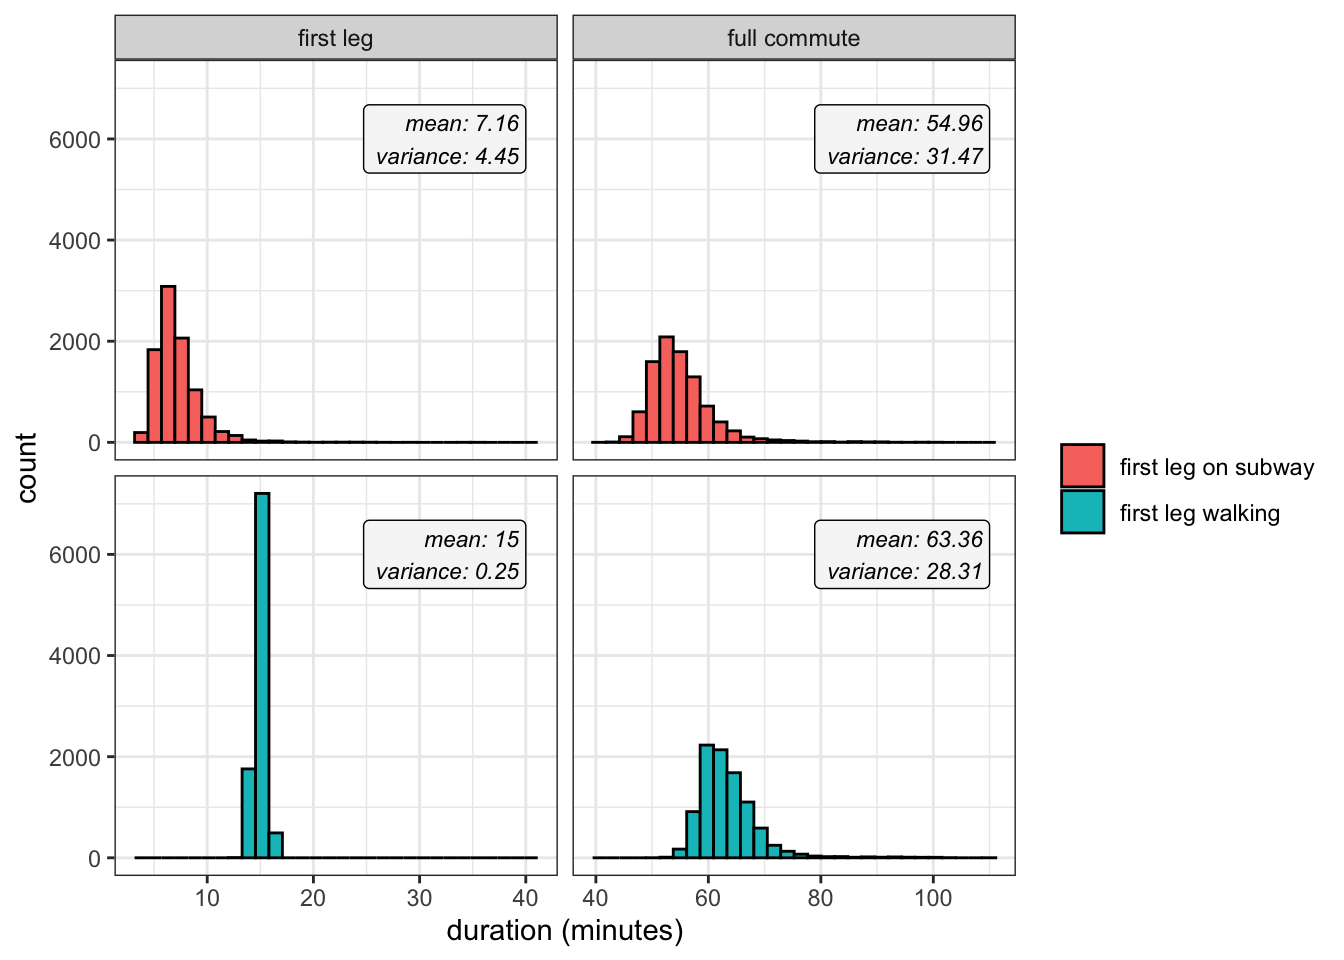
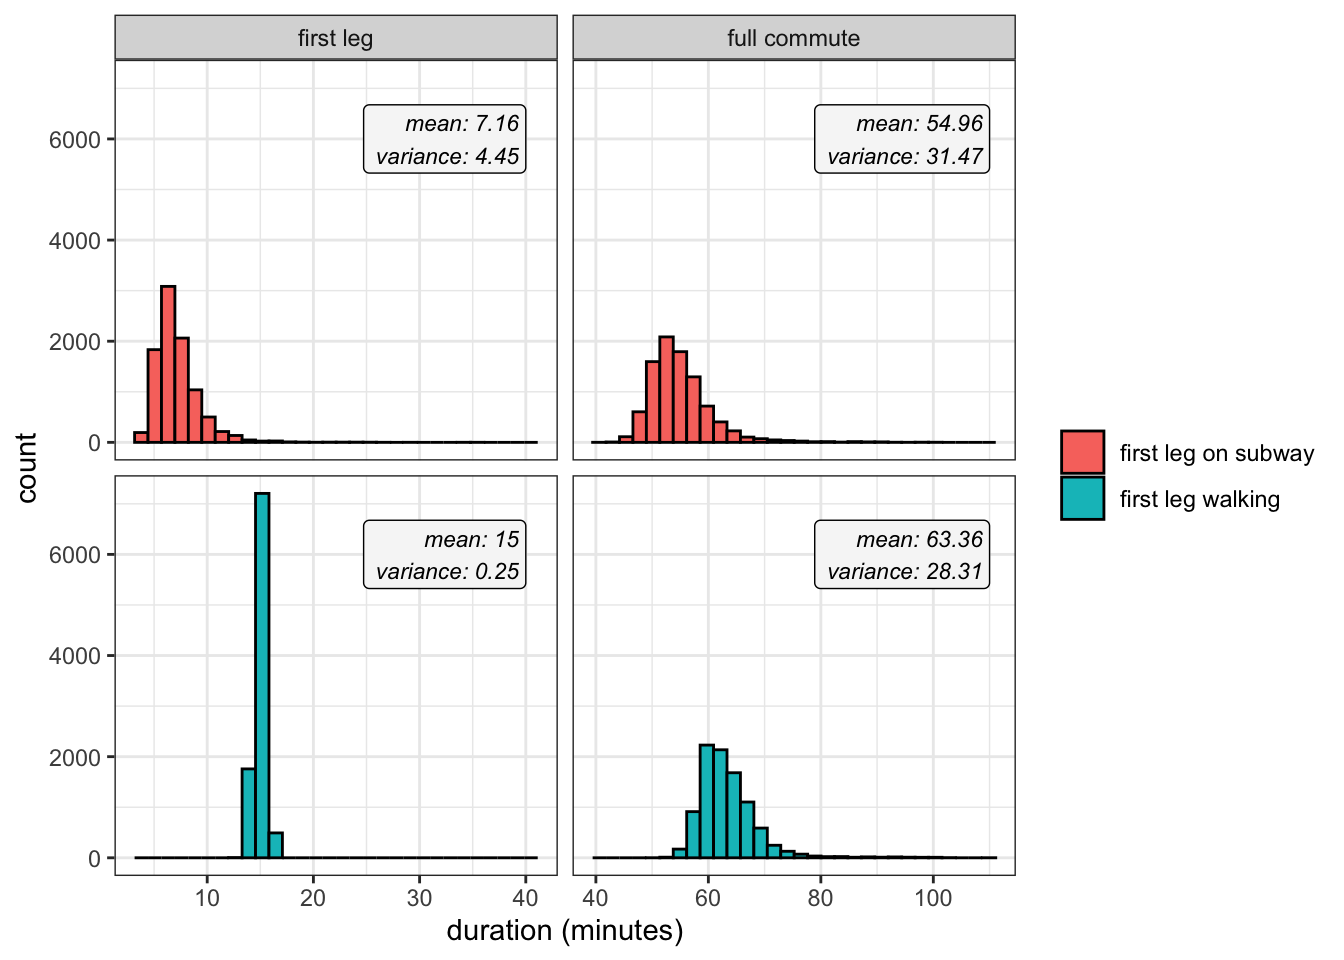
subway better graphs

Changed region(s): [[0.7812, 0.4375, 1.0, 0.5625]]

diff --git a/public/posts/2021-01-07-avoiding-variance-on-my-morning-commute/index.html b/public/posts/2021-01-07-avoiding-variance-on-my-morning-commute/index.html
@@ -1,7 +1,7 @@
 ---
 title: Avoiding Variance on my Morning Commute
 author: Walker Harrison
-date: '2021-01-07'
+date: '2021-01-10'
 draft: false
 slug: []
 categories: []
@@ -35,8 +35,8 @@ X = Y_1 + Y_2; \ \ \ Y_1 \perp Y_2
 \]</span></p>
 <p>As a result, as long as my walks had less variance than the time spent waiting for and riding the 2/3 train until Nevins Street, then the overall variance would also be decreased, since the second leg is identical in both cases. Lucky for us, we can actually test this thought using some historical subway data.</p>
 <p><a href="#skip1"><em><strong>Don’t like/know/care about R? Click here to skip to the results.</strong></em></a></p>
-<p>The MTA publishes the <a href="http://web.mta.info/developers/MTA-Subway-Time-historical-data.html">historical timestamp data</a> of its subway routes, although there are some caveats. I was unable to successfully retrieve the “daily roll-up” files, which meant I had to grab the individual reports that correspond to 5-minute intervals. It also appears that the MTA stopped making these files available at some point in late 2018.</p>
-<p>Either way, I’m able to fetch approximately 200 mornings worth of weekday data from 2018, which should suffice:</p>
+<p>The MTA publishes the <a href="http://web.mta.info/developers/MTA-Subway-Time-historical-data.html" target="_blank">historical timestamp data</a> of its subway routes, although there are some caveats. I was unable to successfully retrieve the “daily roll-up” files, which meant I had to grab the individual reports that correspond to 5-minute intervals. It also appears that the MTA stopped making these files available at some point in late 2018.</p>
+<p>Either way, I’m able to fetch approximately 200 mornings’ worth of weekday data from 2018, which should suffice:</p>
 <pre class="r"><code>library(gtfsway)
 library(httr)
 library(tidyverse)
@@ -74,7 +74,7 @@ for(i in 1:length(urls)){
 # only keep the successful queries
 good_requests &lt;- requests %&gt;%
   keep(function(request) !is.null(request$result$status_code) &amp;&amp; request$result$status_code == 200)</code></pre>
-<p>The <code>gtfsway</code> package is a life-saver here since it converts the <a href="https://developers.google.com/transit/gtfs-realtime">Google transit feed</a> into comprehensible R objects, although I did rewrite the <code>gtfs_tripUpdates</code> function to drill down on specific routes in the interest of speed:</p>
+<p>The <code>gtfsway</code> package is a life-saver here since it converts the <a href="https://developers.google.com/transit/gtfs-realtime" target="_blank">Google transit feed</a> into comprehensible R objects, although I did <a href="https://github.com/WalkerHarrison/blogposts/blob/main/2021-01-07-avoiding-variance-on-my-morning-commute/faster_trip_updates.R" target="_blank">rewrite the <code>gtfs_tripUpdates</code> function</a> to drill down on specific routes in the interest of speed:</p>
 <pre class="r"><code># slight re-write of gtfs_tripUpdates that runs faster
 source(&quot;faster_trip_updates.R&quot;)
 
@@ -155,7 +155,7 @@ first_leg &lt;- trip_updates %&gt;%
   filter(hour(start_time) &lt; 10 | diff == min(diff)) %&gt;%
   select(-diff) %&gt;%
   mutate(route = &quot;first leg (2/3)&quot;)</code></pre>
-<p>The logic for the second leg is similar, although now we have to record the when exactly the first leg is finishing up each day, since these <code>transfers</code> will determine the window during which our second leg can actually start.</p>
+<p>The logic for the second leg is similar, although now we have to record when exactly the first leg is finishing up each day, since these <code>transfers</code> will determine the window during which our second leg can actually start.</p>
 <pre class="r"><code># find earliest and latest times when first leg is ending
 transfers &lt;- first_leg %&gt;%
   filter(stop_idx == max(stop_idx)) %&gt;%
@@ -197,14 +197,22 @@ second_leg &lt;- trip_updates %&gt;%
 
 full_trip %&gt;%
   filter(month(arrival_time) == 1, day(arrival_time) == 2) %&gt;%
+  arrange(desc(route)) %&gt;%
+  mutate(route = factor(route, levels = unique(.$route))) %&gt;%
   ggplot(aes(arrival_time, stop_idx, group = trip_id)) +
   geom_line(aes(col = route)) +
   geom_point(aes(col = route), alpha = 0.5, size = 2) +
   scale_y_continuous(breaks = 1:max(full_trip$stop_idx),
                      labels = unique(c(levels(first_leg$stop_name), levels(second_leg$stop_name)))) +
+  labs(x = &quot;time&quot;, y = &quot;&quot;) +
+  facet_wrap(~date(arrival_time), scales = &quot;free_x&quot;, nrow = 1) +
   theme_bw() +
-  labs(x = &quot;time&quot;, y = &quot;&quot;, color = &quot;&quot;) +
-  facet_wrap(~date(arrival_time), scales = &quot;free_x&quot;, nrow = 1)</code></pre>
+  theme(legend.title = element_blank(),
+        legend.position = c(1, 0), 
+        legend.justification = c(1, 0),
+        legend.background = element_rect(fill = alpha(&quot;white&quot;, 0)),
+        legend.key = element_rect(fill = alpha(&quot;white&quot;, 0)),
+        legend.margin=margin(r = 10, b = 15))</code></pre>
 <div id="skip1">
 
 </div>
@@ -270,7 +278,7 @@ full_trip_walking &lt;- first_leg_walking %&gt;%
   filter((start) == min(start)) %&gt;%
   mutate(duration_full = as.numeric(difftime(end_leg2, end_leg1, units = &#39;mins&#39;)) + duration_leg1)</code></pre>
 <p>Finally we can graph the distribution of simulated first leg and full commute durations under both conditions. As we guaranteed by assuming a relatively consistent walking time, the variance of the first leg is much wider when taking the train despite also having a much smaller mean. This discrepancy is passed along to the full commute durations, as there’s also less overall variance when walking the first leg:</p>
-<pre class="r"><code>rbind(
+<pre class="r"><code>commute_times &lt;- rbind(
   full_trip_subway %&gt;%
     ungroup() %&gt;%
     select(duration_leg1, duration_full) %&gt;%
@@ -282,16 +290,30 @@ full_trip_walking &lt;- first_leg_walking %&gt;%
 ) %&gt;% 
   mutate(idx = row_number()) %&gt;%
   gather(interval, duration, -idx, -type) %&gt;%
-  mutate(interval = ifelse(interval == &quot;duration_leg1&quot;, &quot;first leg&quot;, &quot;full commute&quot;)) %&gt;%
-  ggplot(aes(duration, fill = type)) +
-  geom_histogram(col = &quot;black&quot;) +
+  mutate(interval = ifelse(interval == &quot;duration_leg1&quot;, &quot;first leg&quot;, &quot;full commute&quot;))
+
+commute_stats &lt;- commute_times %&gt;%
+  group_by(type, interval) %&gt;%
+  summarize(mean = mean(duration), variance = var(duration)) %&gt;%
+  mutate(text = paste0(&quot;mean: &quot;, round(mean, 2), &quot;\n&quot;, &quot;variance: &quot;, round(variance, 2)))
+
+commute_times %&gt;%
+  ggplot(aes(duration)) +
+  geom_histogram(aes(fill = type), col = &quot;black&quot;) +
+  geom_label(
+    data = commute_stats,
+    size = 3,
+    fill = &quot;#F6F6F6&quot;,
+    mapping = aes(x = c(40, 110, 40, 110), y = 6000, label = text),
+    hjust = 1,
+    fontface = &quot;italic&quot;) +
   facet_grid(type~interval, scales = &quot;free_x&quot;) +
+  labs(x = &quot;duration (minutes)&quot;) +
   theme_bw() +
-  theme(strip.text.y = element_blank()) +
-  labs(fill = &quot;&quot;)</code></pre>
+  theme(legend.title = element_blank(),
+        strip.text.y = element_blank())</code></pre>
 <div id="skip2">
 
 </div>
-<pre><code>## `stat_bin()` using `bins = 30`. Pick better value with `binwidth`.</code></pre>
 <p><img src="index_files/figure-html/unnamed-chunk-16-1.png" width="672" /></p>
-<p>Of course, the two distributions describing the full journey are very similar, and the difference in spread is mostly washed away against the backdrop of lengthy commutes in general. By walking I wasn’t really saving that much uncertainty or avoiding particularly long trips caused by 4-train delays. But the study is still a decent example of a tradeoff between expected value and variance, which perhaps can explain why I found those walks a little more relaxing than waiting for a train.</p>
+<p>Of course, the two distributions describing the full journey are very similar, and the difference in spread is mostly washed away against the backdrop of lengthy commutes in general. By walking I wasn’t really saving that much uncertainty or avoiding particularly long trips that are usually caused by 4-train delays. But the study is still a decent example of a tradeoff between expected value and variance, which perhaps can explain why I found those walks a little more relaxing than waiting for a train.</p>

diff --git a/content/posts/2021-01-07-avoiding-variance-on-my-morning-commute/index.html b/content/posts/2021-01-07-avoiding-variance-on-my-morning-commute/index.html
@@ -197,14 +197,22 @@ second_leg &lt;- trip_updates %&gt;%
 
 full_trip %&gt;%
   filter(month(arrival_time) == 1, day(arrival_time) == 2) %&gt;%
+  arrange(desc(route)) %&gt;%
+  mutate(route = factor(route, levels = unique(.$route))) %&gt;%
   ggplot(aes(arrival_time, stop_idx, group = trip_id)) +
   geom_line(aes(col = route)) +
   geom_point(aes(col = route), alpha = 0.5, size = 2) +
   scale_y_continuous(breaks = 1:max(full_trip$stop_idx),
                      labels = unique(c(levels(first_leg$stop_name), levels(second_leg$stop_name)))) +
+  labs(x = &quot;time&quot;, y = &quot;&quot;) +
+  facet_wrap(~date(arrival_time), scales = &quot;free_x&quot;, nrow = 1) +
   theme_bw() +
-  labs(x = &quot;time&quot;, y = &quot;&quot;, color = &quot;&quot;) +
-  facet_wrap(~date(arrival_time), scales = &quot;free_x&quot;, nrow = 1)</code></pre>
+  theme(legend.title = element_blank(),
+        legend.position = c(1, 0), 
+        legend.justification = c(1, 0),
+        legend.background = element_rect(fill = alpha(&quot;white&quot;, 0)),
+        legend.key = element_rect(fill = alpha(&quot;white&quot;, 0)),
+        legend.margin=margin(r = 10, b = 15))</code></pre>
 <div id="skip1">
 
 </div>
@@ -270,7 +278,7 @@ full_trip_walking &lt;- first_leg_walking %&gt;%
   filter((start) == min(start)) %&gt;%
   mutate(duration_full = as.numeric(difftime(end_leg2, end_leg1, units = &#39;mins&#39;)) + duration_leg1)</code></pre>
 <p>Finally we can graph the distribution of simulated first leg and full commute durations under both conditions. As we guaranteed by assuming a relatively consistent walking time, the variance of the first leg is much wider when taking the train despite also having a much smaller mean. This discrepancy is passed along to the full commute durations, as there’s also less overall variance when walking the first leg:</p>
-<pre class="r"><code>rbind(
+<pre class="r"><code>commute_times &lt;- rbind(
   full_trip_subway %&gt;%
     ungroup() %&gt;%
     select(duration_leg1, duration_full) %&gt;%
@@ -282,13 +290,28 @@ full_trip_walking &lt;- first_leg_walking %&gt;%
 ) %&gt;% 
   mutate(idx = row_number()) %&gt;%
   gather(interval, duration, -idx, -type) %&gt;%
-  mutate(interval = ifelse(interval == &quot;duration_leg1&quot;, &quot;first leg&quot;, &quot;full commute&quot;)) %&gt;%
-  ggplot(aes(duration, fill = type)) +
-  geom_histogram(col = &quot;black&quot;) +
+  mutate(interval = ifelse(interval == &quot;duration_leg1&quot;, &quot;first leg&quot;, &quot;full commute&quot;))
+
+commute_stats &lt;- commute_times %&gt;%
+  group_by(type, interval) %&gt;%
+  summarize(mean = mean(duration), variance = var(duration)) %&gt;%
+  mutate(text = paste0(&quot;mean: &quot;, round(mean, 2), &quot;\n&quot;, &quot;variance: &quot;, round(variance, 2)))
+
+commute_times %&gt;%
+  ggplot(aes(duration)) +
+  geom_histogram(aes(fill = type), col = &quot;black&quot;) +
+  geom_label(
+    data = commute_stats,
+    size = 3,
+    fill = &quot;#F6F6F6&quot;,
+    mapping = aes(x = c(40, 110, 40, 110), y = 6000, label = text),
+    hjust = 1,
+    fontface = &quot;italic&quot;) +
   facet_grid(type~interval, scales = &quot;free_x&quot;) +
+  labs(x = &quot;duration (minutes)&quot;) +
   theme_bw() +
-  theme(strip.text.y = element_blank()) +
-  labs(fill = &quot;&quot;)</code></pre>
+  theme(legend.title = element_blank(),
+        strip.text.y = element_blank())</code></pre>
 <div id="skip2">
 
 </div>

diff --git a/public/posts/2020-12-17-pushing-google-s-autocorrect-to-the-limit/index.html b/public/posts/2020-12-17-pushing-google-s-autocorrect-to-the-limit/index.html
@@ -153,7 +153,7 @@ ladders_df &lt;- data.frame(
 <p>The graph below moves from left to right and determines when each ladder went from a salvageable typo to an unrecognizable one. There’s a fair amount of overlap in the paths since there are only so many high-probability mutations these terms can go through.</p>
 <p>My instinct was that the ‘w’ in ‘wndicromoly’ was the culprit, although that thought is motivated from a linguistic standpoint, as I perceive ‘w’ to be a very different letter than ‘e’. But Google doesn’t really have trouble handling this error, probably since ‘wnd’ is a dead-end that no one ever really intends to type.</p>
 <p>It appears, however, that turning the ‘logy’ at the end of the word into ‘mogy’ was the mortal wound for many of these ladders, as that’s where the cells turn red, indicating a lack of suggested fixes from Google.</p>
-<p>(Note that the code to produce the graph is lengthy but not particularly interesting so I’ve hidden it, although it is available in <a href="https://github.com/WalkerHarrison/blogposts/blob/main/index.Rmd" target="_blank">the original .Rmd</a>.)</p>
+<p>(Note that the code to produce the graph is lengthy but not particularly interesting so I’ve hidden it, although it is available in <a href="https://github.com/WalkerHarrison/blogposts/blob/main/2020-12-17-pushing-google-s-autocorrect-to-the-limit/index.Rmd" target="_blank">the original .Rmd</a>.)</p>
 <p><img src="index_files/figure-html/unnamed-chunk-11-1.png" width="672" /></p>
 <p>Before we finish, let’s pretend we don’t know what typo we’re going to end up with and instead just start with an intended term. The function <code>make_tree</code> will recursively mutate a term <code>n_children</code> times until a given <code>depth</code> is reached. Let’s use the word “youtube” as our original word.</p>
 <p><a href="#skip2"><em><strong>Still don’t like/know/care about R? Click here to skip to the (other) results.</strong></em></a></p>
@@ -227,6 +227,6 @@ corrected_df &lt;- data.frame(term = terms,
 </div>
 <p>The results are somewhat surprising, at least for me. Through four rounds of typos, all but two of the 16 mutated terms are still recognized as “youtube” by Google. One final iteration is enough to break the algorithm’s back in many cases, but queries like “oktiebe” and “hyurtuue” are still not beyond repair for the omnipotent search engine.</p>
 <p>Of course, the cynic in you might argue that the engineers behind the algorithm have reason to tip the scales for terms that are in the neighborhood of YouTube, which was bought by Google in 2006. Is it possible that Google is a little overly helpful in nudging astray searches toward their own products?</p>
-<p>(Again the graphing code is hidden. Again it is available in <a href="https://github.com/WalkerHarrison/blogposts/blob/main/index.Rmd" target="_blank">the original .Rmd</a>.)</p>
+<p>(Again the graphing code is hidden. Again it is available in <a href="https://github.com/WalkerHarrison/blogposts/blob/main/2020-12-17-pushing-google-s-autocorrect-to-the-limit/index.Rmd" target="_blank">the original .Rmd</a>.)</p>
 <p><img src="index_files/figure-html/unnamed-chunk-15-1.png" width="672" /></p>
 <p>And that’s all for this post. Thanks for reading!</p>

diff --git a/public/index.html b/public/index.html
@@ -25,7 +25,7 @@
 <meta property="og:type" content="website" />
 <meta property="og:url" content="https://walker-harrison.com/" />
 <meta property="og:image" content="https://walker-harrison.com/img/site-feature-image.jpeg"/>
-<meta property="og:updated_time" content="2020-12-14T15:18:41-05:00" /><meta property="og:site_name" content="Title" />
+<meta property="og:updated_time" content="2020-12-29T12:28:19-05:00" /><meta property="og:site_name" content="Title" />
 
 
     
@@ -208,6 +208,24 @@ Built with <a href="https://gohugo.io">Hugo</a> ❤ <a href="https://github.c
   <div class="post-list">
     
     
+      
+      <div class="post-list__item">
+        <span class="item__title--big">
+          <a href="/posts/2021-01-07-avoiding-variance-on-my-morning-commute/" >Avoiding Variance on my Morning Commute</a>
+        </span>
+        <span class="item__date">
+          Jan 10, 2021
+        </span>
+        <span >
+        
+        Sacrificing value for certainty is a common tradeoff in life. Is this what I was (accidentally) doing when I started walking the first part of my daily commute instead of taking the subway? Some historical MTA data can help answer that question.
+        
+        </span>
+        
+        </div>
+        
+     
+     
       
       <div class="post-list__item">
         <span class="item__title--big">

diff --git a/public/posts/index.html b/public/posts/index.html
@@ -27,7 +27,7 @@
 <meta property="og:type" content="website" />
 <meta property="og:url" content="https://walker-harrison.com/posts/" />
 <meta property="og:image" content="https://walker-harrison.com/img/site-feature-image.jpeg"/>
-<meta property="og:updated_time" content="2020-12-14T15:18:41-05:00" /><meta property="og:site_name" content="Title" />
+<meta property="og:updated_time" content="2020-12-29T12:28:19-05:00" /><meta property="og:site_name" content="Title" />
 
 
     
@@ -211,6 +211,15 @@ Built with <a href="https://gohugo.io">Hugo</a> ❤ <a href="https://github.c
 <ul class="posts">
     
         
+<li>
+  <span class="list__title--small">
+    <a href="/posts/2021-01-07-avoiding-variance-on-my-morning-commute/" >Avoiding Variance on my Morning Commute</a>
+      
+      <time class="pull-right hidden-tablet">Jan 10, 2021</time>
+      
+  </span>
+</li>
+
 <li>
   <span class="list__title--small">
     <a href="/posts/2020-12-17-pushing-google-s-autocorrect-to-the-limit/" >Pushing Google&#39;s Autocorrect to the Limit</a>
